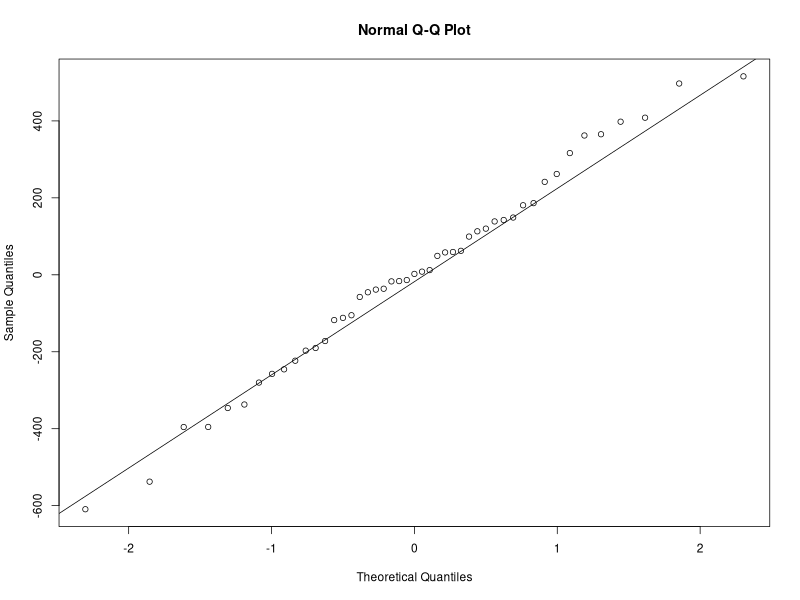
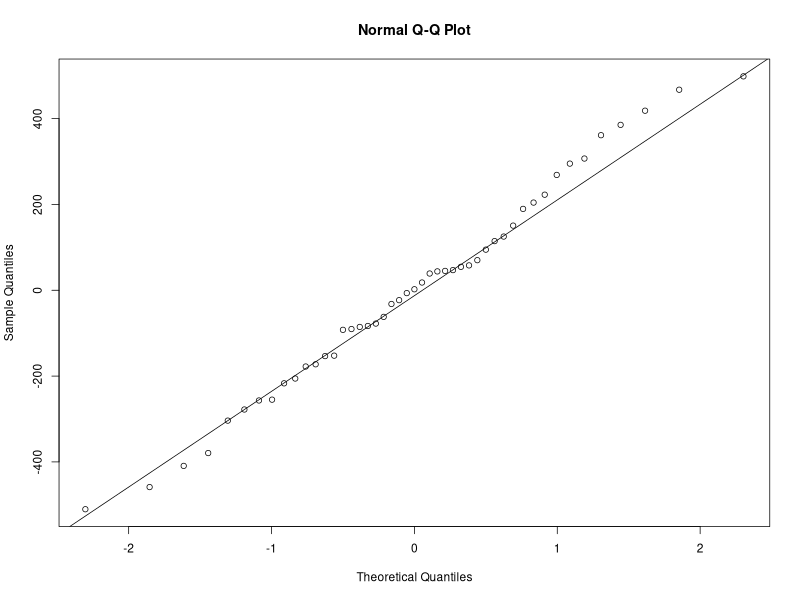
Add residuals and QQ plot generation; refactor dataset loading in main.py and create regularization.py for ridge regression analysis

diff --git a/new_usrime/regularization.py b/new_usrime/regularization.py
@@ -1,0 +1,79 @@
+from dotenv import load_dotenv
+import os
+import rpy2.robjects as r
+from main import load_dataset, install_packages
+
+if __name__ == "__main__":
+    load_dotenv()
+    PATH = os.getenv("DATASET_PATH")
+    DATASET_NAME = "4_New_uscrime_2.txt"
+
+    install_packages(["glmnet"])
+    
+    ds = load_dataset(PATH, DATASET_NAME)
+
+    for col,i in zip(ds.columns, range(1,len(ds.columns)+1)):
+        c = r.r(f'''
+            {col} <- ds[,{i}];
+            {col}
+        ''')
+        r.globalenv[col] = c
+
+    # Separazione delle features e target
+    X = ds[[c for c in ds.columns if c != "Crime"]]
+    y = ds["Crime"]
+
+    model = r.r('''
+        model <- lm(Crime ~ ., data=ds)
+        model                
+    ''')
+
+    resid = r.r(f'''
+        fit <- fitted(model)
+        res <- resid(model)
+        png("{PATH}/img/res_plot.png", width=800, height=600)
+        plot(fit,res)
+        dev.off()
+
+    ''')
+
+    breusch_pagan = r.r('''
+        res2 <- resid(model)^2
+        fit2 <- lm(res2 ~ ., data=ds)
+        fit2
+    ''')
+
+    white_test = r.r('''
+        fit1 <- fitted(model)
+        fit1_2 <- fit1^2
+        res2 <- resid(model)^2
+        model_withe <- lm(res2 ~ fit1 + fit1_2)
+    ''')
+    #lambda=lambda_grid
+    ridge = r.r(f'''
+        library(glmnet)
+        set.seed(123)
+        lambda_grid <- 10^seq(10, -10, length = 200)
+        X_matrix <- as.matrix(ds[ , !(names(ds) %in% c("Crime")) ])
+        y_vector <- as.vector(ds$Crime)
+        ridge_model <- cv.glmnet(X_matrix, y_vector, alpha=1, nfolds = 5, lambda = lambda_grid)
+        
+        png("{PATH}/img/ridge_path_plot.png", width=800, height=600)
+        plot(ridge_model, label=TRUE)
+        dev.off()        
+        best_lambda <- ridge_model$lambda.min
+        best_lambda
+    ''')
+
+    best_lambda = r.r(f'''
+        set.seed(123)
+        best_ridge <- glmnet(X_matrix, y_vector,lambda=best_lambda, nfolds = 5, alpha=1)
+        best_ridge
+    ''')
+
+    print(f"Ridge Regression - Optimal Lambda: {ridge}")
+    print("Ridge MSE:\n", r.r('best_ridge$lambda.1se'))
+    print("Ridge Regression Coefficients:\n", r.r('coef(best_ridge)'))
+    #print("Linear Model Summary:\n", r.r('summary(model)'))
+    #print("Breusch-Pagan Test Summary:\n", r.r('summary(fit2)'))
+    #print("White Test Summary:\n", r.r('summary(model_withe)'))

diff --git a/new_usrime/main.py b/new_usrime/main.py
@@ -55,19 +55,13 @@ def install_packages(pckg_names):
         # Verifica finale
         print(f"   Verifica finale: {rpackages.isinstalled(pckg)}")
 
-if __name__ == "__main__":
-    load_dotenv()
-    PATH = os.getenv("DATASET_PATH")
-    DATASET_NAME = "4_New_uscrime_2.txt"
-
-    if PATH is None:
+def load_dataset(PATH, DATASET_NAME) -> pd.DataFrame:
+    if not PATH or not DATASET_NAME:
         print("DATASET_PATH is not set in the environment variables.")
         print("Using local path...")
         DATASET_PATH = "./"+DATASET_NAME
     else: 
         DATASET_PATH = PATH+"/"+DATASET_NAME
-
-    install_packages(["DAAG","olsrr","car"])
 
     ds = r.r(f'''
     df <- read.table(file="{DATASET_PATH}", header=TRUE, sep="\t", dec=",")
@@ -77,6 +71,15 @@ if __name__ == "__main__":
 
     ds : pd.DataFrame = pandas2ri.rpy2py(ds)
 
+    return ds
+
+if __name__ == "__main__":
+    load_dotenv()
+    PATH = os.getenv("DATASET_PATH")
+    DATASET_NAME = "4_New_uscrime_2.txt"
+
+    ds = load_dataset(PATH,DATASET_NAME)
+    install_packages(["DAAG","olsrr","car"])
 
     print(f"Dataset:\n{ds}")
     for col,i in zip(ds.columns, range(1,len(ds.columns)+1)):
@@ -137,6 +140,14 @@ if __name__ == "__main__":
         '''
     )
 
+    residuals = r.r(f'''
+        model <- lm(Crime ~ ., data=ds)
+        res <- resid(model)
+        png("{PATH}/img/res_plot.png", width=800, height=600)
+        plot(residuals, main="Residuals Plot", xlab="Residuals")
+        dev.off()                
+    ''')
+
     m_complete = r.r(
         f'''
             model_complete <- lm(Crime ~ ., data = ds)
@@ -178,6 +189,4 @@ if __name__ == "__main__":
     print("Condition Number:\n",r.r('kappa(model.matrix(model_final))'))
     print("Determinant of X'X:", det)
     print("Rj0 values:\n", r_j0(r.r('car::vif(model_final)')))
-    print("---------------------------------------------------")
-    
     

diff --git a/prodotto_interno_lordo/main.py b/prodotto_interno_lordo/main.py
@@ -116,7 +116,7 @@ ts_pil
         dummy_08 <- ifelse(time_points >= 2008.00, 1, 0)
         dummy_20 <- ifelse(time_points >= 2020.00, 1, 0)
                   
-        model_full <- lm(ts_pil ~ d1+d2+d3+d4+poly(t, 3, raw = TRUE) + dummy_08 + dummy_20 -1)
+        model_full <- lm(ts_pil ~ d1+d2+d3+d4+poly(t, 3, raw = TRUE) + dummy_08 + dummy_08:t + dummy_20 -1)
         
         png("{PATH}/img/time_series_comparison.png", width=1200, height=600)
         fitted_ts <- ts(fitted(model_full), start=start(ts_pil), frequency=frequency(ts_pil))
